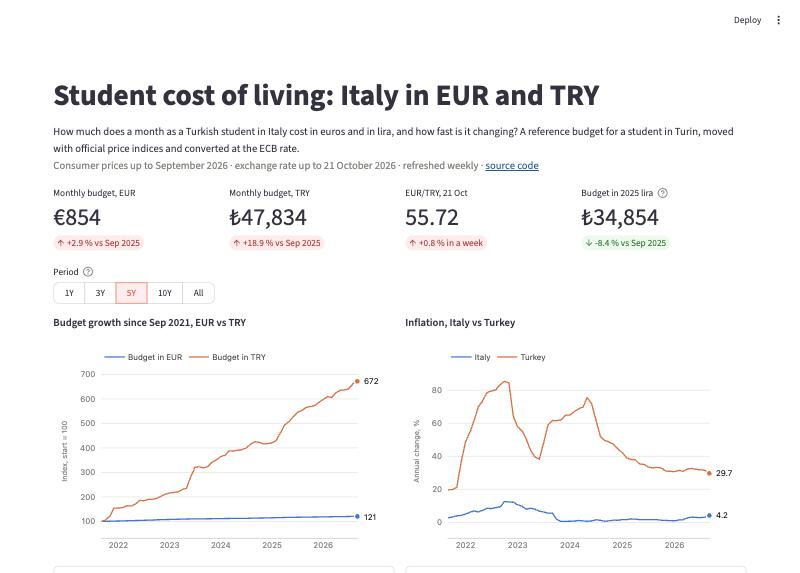
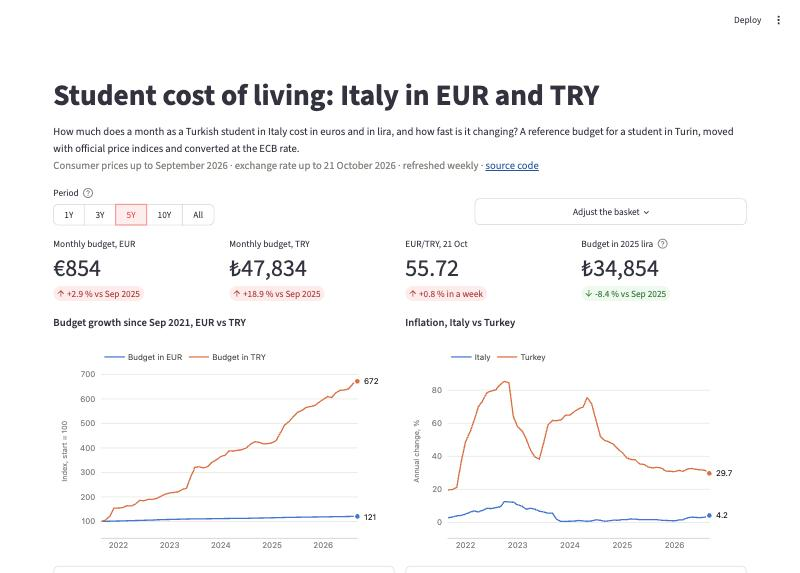
Dashboard: editable basket
- "Adjust the basket" popover in the filter row: per-component monthly
  amounts at 2025 prices; tiles and the budget chart are recomputed
- app/budget.py: same method as the dbt mart, tested to reproduce
  student_budget_monthly with the reference basket
- Refreshed README screenshot and dashboard section

diff --git a/app/dashboard.py b/app/dashboard.py
@@ -14,6 +14,8 @@ import pandas as pd
 import plotly.graph_objects as go
 import streamlit as st
 
+from budget import compute_budget
+
 ROOT = Path(__file__).resolve().parents[1]
 MARTS = ROOT / "data" / "marts"
 BRIEFS = ROOT / "reports" / "briefs"
@@ -119,9 +121,8 @@ cpi = marts["cpi_monthly"]
 for df, col in ((budget, "month"), (power, "month"), (fx, "rate_date"), (cpi, "month")):
     df[col] = pd.to_datetime(df[col])
 
-cur, latest_fx = budget.iloc[-1], fx.iloc[-1]
-prev = budget[budget["month"] == cur["month"] - pd.DateOffset(years=1)].iloc[0]
-cur_power = power.iloc[-1]
+reference_basket = pd.read_csv(BASKET)
+latest_fx = fx.iloc[-1]
 week_ago = fx[fx["rate_date"] <= latest_fx["rate_date"] - pd.Timedelta(days=7)].iloc[-1]
 
 # ---------- header ----------
@@ -129,10 +130,32 @@ st.title("Student cost of living: Italy in EUR and TRY")
 st.markdown(
     f"How much does a month as a Turkish student in Italy cost in euros and in lira, and how fast is it changing? "
     f"A reference budget for a student in Turin, moved with official price indices and converted at the ECB rate.  \n"
-    f"<span style='color:{C['muted']}'>Consumer prices up to {cur['month']:%B %Y} · exchange rate up to "
+    f"<span style='color:{C['muted']}'>Consumer prices up to {budget['month'].max():%B %Y} · exchange rate up to "
     f"{latest_fx['rate_date']:%-d %B %Y} · refreshed weekly · [source code]({REPO})</span>",
     unsafe_allow_html=True,
 )
+
+# ---------- one filter row: period for the charts, basket for the tiles and the budget chart ----------
+f_period, f_basket = st.columns([3, 2], vertical_alignment="bottom")
+with f_period:
+    period = st.segmented_control("Period", list(PERIODS), default="5Y", help="Applies to every chart below.") or "5Y"
+with f_basket:
+    basket = reference_basket.copy()
+    with st.popover("Adjust the basket", width="stretch"):
+        st.caption("Monthly amounts in EUR at 2025 average prices. Each one is moved with its Italian price index.")
+        for i, row in basket.iterrows():
+            basket.loc[i, "base_amount_eur"] = st.number_input(
+                row["component"].capitalize(), min_value=0, max_value=5000, step=10,
+                value=int(row["base_amount_eur"]), help=row["assumption"], key=f"basket_{row['component']}")
+custom = not basket["base_amount_eur"].equals(reference_basket["base_amount_eur"])
+if custom:
+    st.caption(f"Custom basket: €{basket['base_amount_eur'].sum():,.0f} a month at 2025 prices "
+               f"(reference €{reference_basket['base_amount_eur'].sum():,.0f}). Tiles and the budget chart use it; "
+               "the weekly brief always uses the reference basket.")
+
+mine = compute_budget(cpi, budget, power, basket)
+cur = mine.iloc[-1]
+prev = mine[mine["month"] == cur["month"] - pd.DateOffset(years=1)].iloc[0]
 
 k1, k2, k3, k4 = st.columns(4)
 k1.metric("Monthly budget, EUR", f"€{cur['total_eur']:,.0f}",
@@ -141,17 +164,15 @@ k2.metric("Monthly budget, TRY", f"₺{cur['total_try']:,.0f}",
           f"{fmt_pct(cur['total_try_yoy_pct'])} vs {prev['month']:%b %Y}", delta_color="inverse")
 k3.metric(f"EUR/TRY, {latest_fx['rate_date']:%-d %b}", f"{latest_fx['eur_try']:.2f}",
           f"{fmt_pct(100 * (latest_fx['eur_try'] / week_ago['eur_try'] - 1))} in a week", delta_color="inverse")
-k4.metric("Budget in 2025 lira", f"₺{cur_power['budget_try_at_2025_prices']:,.0f}",
-          f"{fmt_pct(cur_power['budget_real_try_yoy_pct'])} vs {prev['month']:%b %Y}", delta_color="inverse",
+k4.metric("Budget in 2025 lira", f"₺{cur['budget_try_at_2025_prices']:,.0f}",
+          f"{fmt_pct(cur['budget_real_try_yoy_pct'])} vs {prev['month']:%b %Y}", delta_color="inverse",
           help="The TRY budget deflated by Turkish consumer prices: what it costs a family whose income keeps up "
                "with Turkish inflation. Down means cheaper in real terms.")
 
-# ---------- one filter row for every chart ----------
-period = st.segmented_control("Period", list(PERIODS), default="5Y", help="Applies to every chart below.") or "5Y"
 years = PERIODS[period]
-start = cur["month"] - pd.DateOffset(years=years) if years else budget["month"].min()
+start = cur["month"] - pd.DateOffset(years=years) if years else mine["month"].min()
 
-b = budget[budget["month"] >= start].copy()
+b = mine[mine["month"] >= start].copy()
 b["EUR (start = 100)"] = 100 * b["total_eur"] / b["total_eur"].iloc[0]
 b["TRY (start = 100)"] = 100 * b["total_try"] / b["total_try"].iloc[0]
 
@@ -169,7 +190,8 @@ with left:
         line_chart(b, "month", [("EUR (start = 100)", "Budget in EUR", C["eur"]),
                                 ("TRY (start = 100)", "Budget in TRY", C["try"])], "Index, start = 100", ",.0f"),
         b[["month", "total_eur", "eur_try_avg", "total_try", "total_eur_yoy_pct", "total_try_yoy_pct"]]
-        .rename(columns={"total_eur": "budget_eur", "total_try": "budget_try"}),
+        .rename(columns={"total_eur": "budget_eur", "total_try": "budget_try"})
+        .round({"budget_eur": 2, "eur_try_avg": 4, "budget_try": 0, "total_eur_yoy_pct": 2, "total_try_yoy_pct": 2}),
     )
     st.caption("Both budgets are indexed to 100 at the start of the period so they share one axis. "
                "The gap between the lines is the effect of the exchange rate.")
@@ -227,7 +249,7 @@ else:
 # ---------- method ----------
 st.divider()
 with st.expander("Reference basket and sources"):
-    basket = pd.read_csv(BASKET)
+    basket = reference_basket.copy()
     basket["weight"] = (basket["base_amount_eur"] / basket["base_amount_eur"].sum()).map("{:.1%}".format)
     st.dataframe(basket, hide_index=True, width="stretch")
     st.markdown(

diff --git a/app/budget.py b/app/budget.py
@@ -1,0 +1,28 @@
+"""Recomputes the monthly student budget for any basket, with the same method as the dbt mart
+student_budget_monthly: each 2025 base amount is moved with its Italian HICP index (2025 = 100), converted with
+the month's average EUR/TRY and deflated by Turkish HICP. With the reference basket it reproduces the mart.
+"""
+
+import pandas as pd
+
+
+def compute_budget(cpi: pd.DataFrame, budget_mart: pd.DataFrame, power_mart: pd.DataFrame,
+                   basket: pd.DataFrame) -> pd.DataFrame:
+    """basket: one row per component with columns component, coicop, base_amount_eur."""
+    it = cpi[(cpi["source"] == "eurostat_hicp") & (cpi["geo"] == "IT") & cpi["coicop"].isin(basket["coicop"])]
+    idx = it.pivot(index="month", columns="coicop", values="index_2025").dropna()  # every component published
+    out = pd.DataFrame({row.component: row.base_amount_eur * idx[row.coicop] / 100 for row in basket.itertuples()})
+    out["total_eur"] = out.sum(axis=1)
+    out = (out.reset_index()
+           .merge(budget_mart[["month", "eur_try_avg"]], on="month")
+           .merge(power_mart[["month", "tr_hicp_index_2025"]], on="month"))
+    out["total_try"] = out["total_eur"] * out["eur_try_avg"]
+    out["budget_try_at_2025_prices"] = out["total_try"] / (out["tr_hicp_index_2025"] / 100)
+
+    cols = ["total_eur", "total_try", "budget_try_at_2025_prices"]
+    prev = out[["month", *cols]].assign(month=out["month"] + pd.DateOffset(years=1))
+    out = out.merge(prev, on="month", how="left", suffixes=("", "_prev"))
+    out["total_eur_yoy_pct"] = 100 * (out["total_eur"] / out["total_eur_prev"] - 1)
+    out["total_try_yoy_pct"] = 100 * (out["total_try"] / out["total_try_prev"] - 1)
+    out["budget_real_try_yoy_pct"] = 100 * (out["budget_try_at_2025_prices"] / out["budget_try_at_2025_prices_prev"] - 1)
+    return out.sort_values("month", ignore_index=True)

diff --git a/tests/test_dashboard.py b/tests/test_dashboard.py
@@ -15,3 +15,33 @@ def test_dashboard_renders_every_period():
     for period in ("1Y", "10Y", "All"):
         at.button_group[0].set_value(period).run()
         assert not at.exception, period
+
+
+def test_reference_basket_reproduces_the_dbt_mart():
+    import sys
+
+    import duckdb
+    import pandas as pd
+
+    root = Path(__file__).resolve().parents[1]
+    sys.path.insert(0, str(root / "app"))
+    from budget import compute_budget
+
+    con = duckdb.connect()
+    marts = {n: con.execute(f"select * from read_parquet('{root / 'data' / 'marts' / n}.parquet')").df()
+             for n in ("cpi_monthly", "student_budget_monthly", "try_purchasing_power")}
+    mine = compute_budget(marts["cpi_monthly"], marts["student_budget_monthly"], marts["try_purchasing_power"],
+                          pd.read_csv(root / "dbt" / "seeds" / "basket_components.csv"))
+    merged = mine.merge(marts["student_budget_monthly"], on="month", suffixes=("", "_mart"))
+    assert len(merged) == len(marts["student_budget_monthly"])
+    assert (merged["total_eur"] - merged["total_eur_mart"]).abs().max() < 0.01
+    assert (merged["total_try"] - merged["total_try_mart"]).abs().max() < 1
+
+
+def test_custom_basket_changes_the_tiles():
+    at = AppTest.from_file(APP, default_timeout=60).run()
+    reference = at.metric[0].value
+    at.number_input(key="basket_transport").set_value(40).run()
+    assert not at.exception
+    assert at.metric[0].value != reference
+    assert any("Custom basket" in c.value for c in at.caption)

diff --git a/README.md b/README.md
@@ -216,7 +216,10 @@ briefs. It needs no database, network access or API key, so it runs anywhere the
 
 - **Headline tiles:** monthly budget in EUR and TRY with the change over a year, the latest EUR/TRY with the
   change over a week, and the budget in 2025 lira (deflated by Turkish prices).
-- **One period filter** (1Y, 3Y, 5Y, 10Y, All) above every chart.
+- **One filter row:** the period (1Y, 3Y, 5Y, 10Y, All) for every chart, and **Adjust the basket**, where a
+  student can enter their own monthly amounts (for example a transport pass for students aged 26 or over); the
+  tiles and the budget chart are recomputed with the same method as the dbt mart
+  ([`app/budget.py`](app/budget.py), tested to reproduce `student_budget_monthly` with the reference basket).
 - **Budget growth, EUR vs TRY**, both indexed to 100 at the start of the period so they share one axis (no
   dual axes); the gap between the lines is the exchange-rate effect.
 - **Inflation, Italy vs Turkey** (HICP annual rates), **Italian rents vs all prices** (HICP CP041 vs all items,
@@ -260,6 +263,7 @@ docs/weekly_brief.md    writing guide and procedure for the weekly brief
 WEEKLY_UPDATES.md       all weekly briefs, newest first
 tests/                  unit tests for the guardrail and publishing, dashboard smoke test
 app/dashboard.py        Streamlit dashboard on data/marts and the published briefs
+app/budget.py           budget for any basket (same method as the dbt mart)
 requirements.txt        dashboard dependencies for Streamlit Community Cloud
 .github/workflows/      CI and weekly refresh
 dbt/
@@ -278,8 +282,7 @@ dbt/
 - [x] **W4: LLM weekly brief.** Weekly brief written by a Claude Code routine and published through a numeric
   guardrail (see [Weekly brief](#weekly-brief)).
 - [x] **W5: dashboard.** Streamlit app on the marts and the weekly briefs (see [Dashboard](#dashboard)).
-- [ ] **Next:** publish the live demo on Streamlit Community Cloud; an editable basket in the dashboard (for
-  example transport for students aged 26 or over); a component breakdown of the budget.
+- [ ] **Next:** publish the live demo on Streamlit Community Cloud; a component breakdown of the budget.
 
 ## Limitations
 
